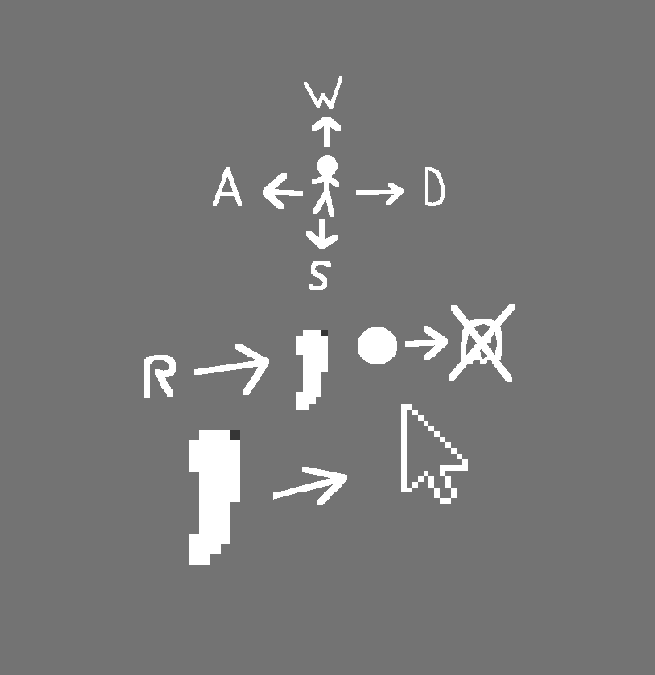
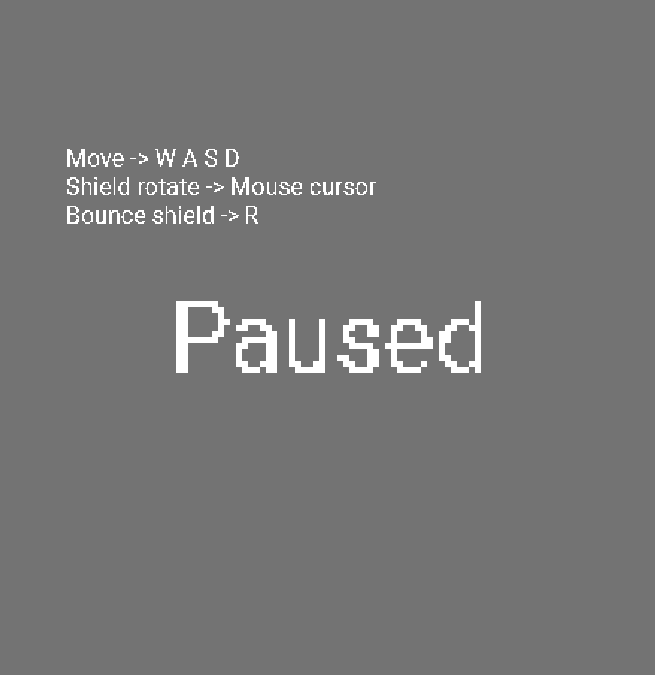
upb. opt

diff --git a/src/main/java/org/example/PanelInfo.java b/src/main/java/org/example/PanelInfo.java
@@ -14,7 +14,7 @@ public class PanelInfo extends JPanel implements KeyListener {
     private boolean gameOver = false;
     private boolean victory = false;
     private boolean pause = false;
-    private boolean poused=false;
+    private boolean paused =false;
     private Image over;
     private Image pouse;
 
@@ -132,24 +132,27 @@ public class PanelInfo extends JPanel implements KeyListener {
     @Override
     public void keyPressed(KeyEvent e) {
         char key = e.getKeyChar();
-        if (key=='q'){
-            if (poused==false) {
-                pause = true;
-                poused=true;
+        if (!gameOver&&!victory) {
+            if (key == 'q') {
+                if (pause == false&&paused == false) {
+                    pause = true;
+                }
+                if (pause == true&&paused == true) {
+                    pause=false;
+                }
 
             }
-            else if(poused==true){
-                pause = false;
-                poused=false;
-            }
-
         }
 
     }
 
     @Override
     public void keyReleased(KeyEvent e) {
-
+        char key = e.getKeyChar();
+        if (key == 'q') {
+        if (paused==false){paused = true;}
+        else if (paused == true){paused=false;}
+        }
     }
 
     public boolean isPause() {

diff --git a/src/main/java/org/example/Menu.java b/src/main/java/org/example/Menu.java
@@ -68,19 +68,18 @@ public class Menu extends JPanel implements MouseListener, MouseMotionListener {
     public void vykresleniMenu(Graphics g) {
 
         g.drawImage(i_menu,x,y,w,h,null);
-        g.drawImage(i_button_play,sx,sy,sw,sh,null);
-        g.drawImage(i_button_stop,ex,ey,ew,eh,null);
 
-        if (getLoccation()==1) {
+        if (loccation==1) {
             g.drawImage(i_button_playPush, sx, sy, sw, sh, null);
-
+            g.drawImage(i_button_stop, ex, ey, ew, eh, null);
         }
 
-        if (getLoccation()==2) {
+        if (loccation==2) {
             g.drawImage(i_button_stopPush, ex, ey, ew, eh, null);
+            g.drawImage(i_button_play, sx, sy, sw, sh, null);
         }
 
-        else if (getLoccation()==0) {
+        else if (loccation==0) {
             g.drawImage(i_button_play, sx, sy, sw, sh, null);
             g.drawImage(i_button_stop, ex, ey, ew, eh, null);
         }

diff --git a/src/main/java/org/example/GameManager.java b/src/main/java/org/example/GameManager.java
@@ -199,9 +199,12 @@ public class GameManager extends JPanel implements KeyListener, MouseMotionListe
 
     @Override
     public void keyPressed(KeyEvent e) {
-        shield.keyPressed(e);
-        player.keyPressed(e);
-        info.keyPressed(e);
+        if (!info.isPause()) {
+            shield.keyPressed(e);
+            player.keyPressed(e);
+        }
+            info.keyPressed(e);
+
 
 
     }
@@ -210,6 +213,7 @@ public class GameManager extends JPanel implements KeyListener, MouseMotionListe
     public void keyReleased(KeyEvent e) {
         player.keyReleased(e);
         shield.keyReleased(e);
+        info.keyReleased(e);
 
     }
 
